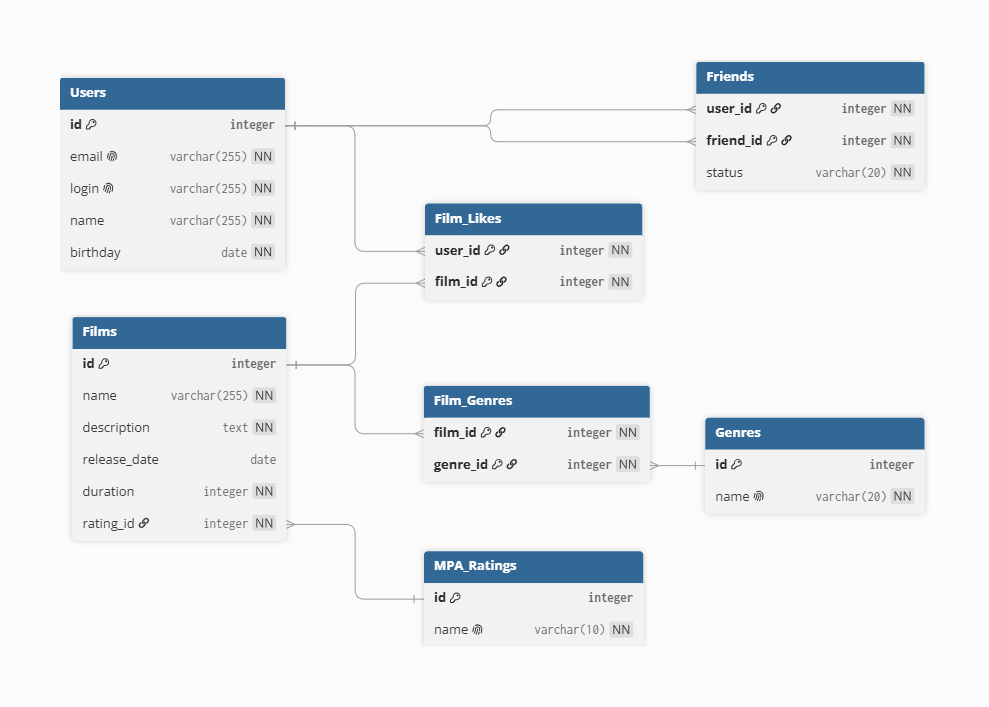
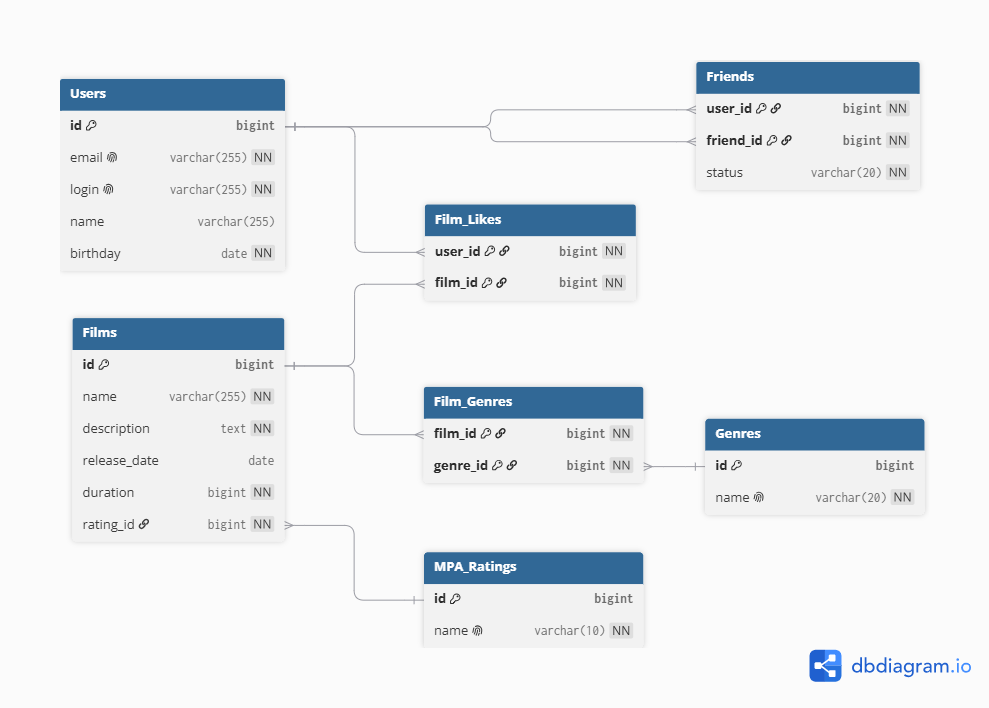
Подчистил схемы БД, сделал проверку и обновление статуса дружбы в UserService. Добавил минорные правки в модель Film для поддержки метода mergeWith

diff --git a/src/main/java/ru/yandex/practicum/filmorate/services/UserService.java b/src/main/java/ru/yandex/practicum/filmorate/services/UserService.java
@@ -3,6 +3,7 @@ package ru.yandex.practicum.filmorate.services;
 import jakarta.validation.ValidationException;
 import org.springframework.beans.factory.annotation.Autowired;
 import org.springframework.stereotype.Service;
+import ru.yandex.practicum.filmorate.enums.FriendshipStatus;
 import ru.yandex.practicum.filmorate.exeptions.NotFoundException;
 import ru.yandex.practicum.filmorate.model.Friendship;
 import ru.yandex.practicum.filmorate.model.User;
@@ -42,12 +43,30 @@ public class UserService {
         User friend = getUserOrThrow(friendId);
 
         if (user.getFriendRequests().stream()
-                .anyMatch(f -> f.getFriendId().equals(userId))) {
+                .anyMatch(f -> f.getFriendId().equals(userId)
+                        && f.getStatus().equals(FriendshipStatus.CONFIRMED))) {
             throw new ValidationException("Пользователи уже являются друзьями");
         }
 
-        user.getFriendRequests().add(new Friendship(userId, friendId));
-        friend.getFriendRequests().add(new Friendship(friendId, userId));
+        if (user.getFriendRequests().stream()
+                .anyMatch(f -> f.getFriendId().equals(friendId)
+                        && f.getStatus() == FriendshipStatus.PENDING)) {
+            throw new ValidationException("От одного из друзей требуется подтверждение заявки");
+        }
+
+        //надо понять отправлял ли уже пользователь приглашение дружбы
+        boolean hasFriendshipRequest = friend.getFriendRequests().stream()
+                .anyMatch(f -> f.getFriendId().equals(userId)
+                        && f.getStatus() == FriendshipStatus.PENDING);
+
+        //либо обновляем статусы, либо делаем встречные заявки
+        if (hasFriendshipRequest) {
+            friendStatusUpdate(user, friendId);
+            friendStatusUpdate(friend, userId);
+        } else {
+            user.getFriendRequests().add(new Friendship(userId, friendId, FriendshipStatus.PENDING));
+            friend.getFriendRequests().add(new Friendship(friendId, userId, FriendshipStatus.PENDING));
+        }
 
         userStorage.save(user);
         userStorage.save(friend);
@@ -72,6 +91,7 @@ public class UserService {
     public Collection<User> getAllFriends(Long userId) {
         User user = getUserOrThrow(userId);
 
+        //пока без учёта подтверждения
         return user.getFriendRequests().stream()
                 .map(Friendship::getFriendId)
                 .map(this::getUserOrThrow)
@@ -101,6 +121,16 @@ public class UserService {
     private User getUserOrThrow(Long id) {
         return userStorage.getUserById(id)
                 .orElseThrow(() -> new NotFoundException("Пользователь с id = " + id + " не найден"));
+    }
+
+    //обновление статуса дружбы
+    private void friendStatusUpdate(User user, Long friendId) {
+        Friendship friendship = user.getFriendRequests().stream()
+                .filter(f -> f.getFriendId().equals(friendId))
+                .findFirst()
+                .orElseThrow(() -> new IllegalStateException("Объект дружбы не найден"));
+
+        friendship.setStatus(FriendshipStatus.CONFIRMED);
     }
 
     public void getUserById(Long id) {

diff --git a/src/main/java/ru/yandex/practicum/filmorate/model/Film.java b/src/main/java/ru/yandex/practicum/filmorate/model/Film.java
@@ -36,9 +36,10 @@ public class Film {
 
     private final Set<Long> likes = new HashSet<>(); //лайки
 
-    private final Set<Genres> genres; //жанры
+    @Builder.Default //сохраняет значение по умолчанию
+    private final Set<Genres> genres = new HashSet<>(); //жанры
 
-    private final MpaRating mpa; //рейтинг МРА
+    private MpaRating mpa; //рейтинг МРА
 
     //метод проверяет данные Film при обновлении и не допускает внезапные null если часть данных не обновляется
     public Film mergeWith(Film newData) {
@@ -48,7 +49,7 @@ public class Film {
                 .description(newData.getDescription() != null ? newData.getDescription() : this.description)
                 .releaseDate(newData.getReleaseDate() != null ? newData.getReleaseDate() : this.releaseDate)
                 .duration(newData.getDuration())
-                .genres(newData.getGenres() != null ? new HashSet<>(newData.getGenres()) : this.genres)
+                .genres(newData.getGenres() != null ? newData.getGenres() : this.genres)
                 .mpa(newData.getMpa() != null ? newData.getMpa() : this.mpa)
                 .build();
     }

diff --git a/src/main/java/ru/yandex/practicum/filmorate/model/Friendship.java b/src/main/java/ru/yandex/practicum/filmorate/model/Friendship.java
@@ -9,11 +9,11 @@ import ru.yandex.practicum.filmorate.enums.FriendshipStatus;
 public class Friendship {
     private final Long userId;
     private final Long friendId;
-    private final FriendshipStatus status;
+    private FriendshipStatus status;
 
-    public Friendship(Long userId, Long friendId) {
+    public Friendship(Long userId, Long friendId, FriendshipStatus status) {
         this.userId = userId;
         this.friendId = friendId;
-        this.status = FriendshipStatus.PENDING;
+        this.status = status;
     }
 }

diff --git a/DB_SCHEMA.md b/DB_SCHEMA.md
@@ -11,8 +11,8 @@
 ```sql
 CREATE TABLE MPA_Ratings
 (
-    rating_id BIGINT GENERATED BY DEFAULT AS IDENTITY PRIMARY KEY,
-    name      VARCHAR(10) NOT NULL UNIQUE
+    id   BIGINT GENERATED BY DEFAULT AS IDENTITY PRIMARY KEY,
+    name VARCHAR(10) NOT NULL UNIQUE
 );
 ```
 
@@ -21,8 +21,8 @@ CREATE TABLE MPA_Ratings
 ```sql
 CREATE TABLE Genres
 (
-    genre_id BIGINT GENERATED BY DEFAULT AS IDENTITY PRIMARY KEY,
-    name     VARCHAR(100) NOT NULL UNIQUE
+    id   BIGINT GENERATED BY DEFAULT AS IDENTITY PRIMARY KEY,
+    name VARCHAR(100) NOT NULL UNIQUE
 );
 ```
 
@@ -33,11 +33,11 @@ CREATE TABLE Genres
 ```sql
 CREATE TABLE Users
 (
-    user_id  BIGINT GENERATED BY DEFAULT AS IDENTITY PRIMARY KEY,
+    id       BIGINT GENERATED BY DEFAULT AS IDENTITY PRIMARY KEY,
     email    VARCHAR(255) NOT NULL UNIQUE,
-    login    VARCHAR(255) NOT NULL,
+    login    VARCHAR(255) NOT NULL UNIQUE,
     name     VARCHAR(255),
-    birthday DATE
+    birthday DATE         NOT NULL
 );
 ```
 
@@ -46,12 +46,12 @@ CREATE TABLE Users
 ```sql
 CREATE TABLE Films
 (
-    film_id     BIGINT GENERATED BY DEFAULT AS IDENTITY PRIMARY KEY,
+    id          BIGINT GENERATED BY DEFAULT AS IDENTITY PRIMARY KEY,
     name        VARCHAR(255) NOT NULL,
     description TEXT         NOT NULL,
     releaseDate DATE,
     duration    BIGINT       NOT NULL,
-    rating_id   BIGINT       NOT NULL REFERENCES MPA_Ratings (rating_id)
+    rating_id   BIGINT       NOT NULL REFERENCES MPA_Ratings (id)
 );
 ```
 
@@ -62,8 +62,8 @@ CREATE TABLE Films
 ```sql
 CREATE TABLE Friends
 (
-    user_id   BIGINT      NOT NULL REFERENCES Users (user_id),
-    friend_id BIGINT      NOT NULL REFERENCES Users (user_id),
+    user_id   BIGINT      NOT NULL REFERENCES Users (id),
+    friend_id BIGINT      NOT NULL REFERENCES Users (id),
     status    VARCHAR(20) NOT NULL DEFAULT 'PENDING',
     PRIMARY KEY (user_id, friend_id)
 );
@@ -74,8 +74,8 @@ CREATE TABLE Friends
 ```sql
 CREATE TABLE Film_Likes
 (
-    film_id BIGINT NOT NULL REFERENCES Films (film_id),
-    user_id BIGINT NOT NULL REFERENCES Users (user_id),
+    film_id BIGINT NOT NULL REFERENCES Films (id),
+    user_id BIGINT NOT NULL REFERENCES Users (id),
     PRIMARY KEY (user_id, film_id)
 );
 ```
@@ -85,8 +85,8 @@ CREATE TABLE Film_Likes
 ```sql
 CREATE TABLE Film_Genres
 (
-    film_id  BIGINT NOT NULL REFERENCES Films (film_id),
-    genre_id BIGINT NOT NULL REFERENCES Genres (genre_id),
+    film_id  BIGINT NOT NULL REFERENCES Films (id),
+    genre_id BIGINT NOT NULL REFERENCES Genres (id),
     PRIMARY KEY (film_id, genre_id)
 );
 ```
@@ -99,7 +99,8 @@ CREATE TABLE Film_Genres
 
 ```sql
 INSERT INTO Film_Likes (film_id, user_id)
-VALUES (1, 2);
+VALUES (1, 2)
+ON CONFLICT (film_id, user_id) DO NOTHING;
 ```
 
 ### Удалить лайк
@@ -116,8 +117,8 @@ WHERE film_id = 1
 ```sql
 SELECT f.*, COUNT(fl.user_id) AS like_count
 FROM Films f
-         LEFT JOIN Film_Likes fl ON f.film_id = fl.film_id
-GROUP BY f.film_id
+         LEFT JOIN Film_Likes fl ON f.id = fl.film_id
+GROUP BY f.id
 ORDER BY like_count DESC LIMIT 10;
 ```
 
@@ -126,9 +127,9 @@ ORDER BY like_count DESC LIMIT 10;
 ```sql
 SELECT f.*, g.name AS genre_name
 FROM Films f
-         LEFT JOIN Film_Genres fg ON f.film_id = fg.film_id
-         LEFT JOIN Genres g ON fg.genre_id = g.genre_id
-WHERE f.film_id = 1;
+         LEFT JOIN Film_Genres fg ON f.id = fg.film_id
+         LEFT JOIN Genres g ON fg.genre_id = g.id
+WHERE f.id = 1;
 ```
 
 ### Отправить заявку в друзья (или подтвердить существующую)
